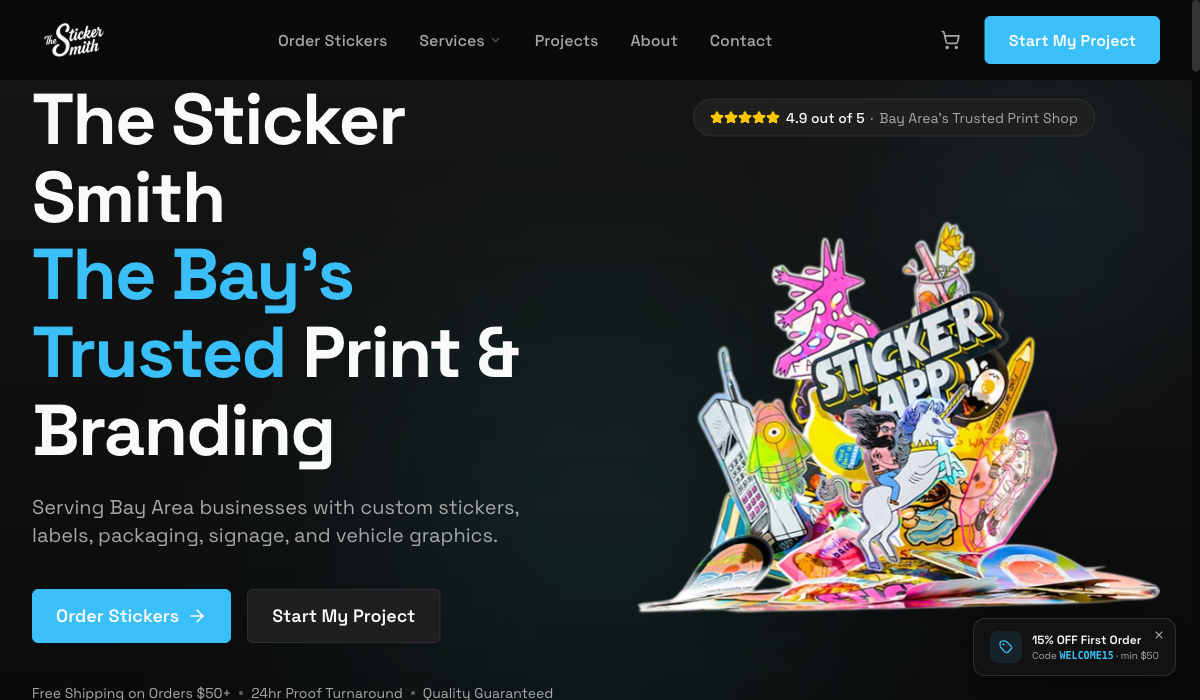
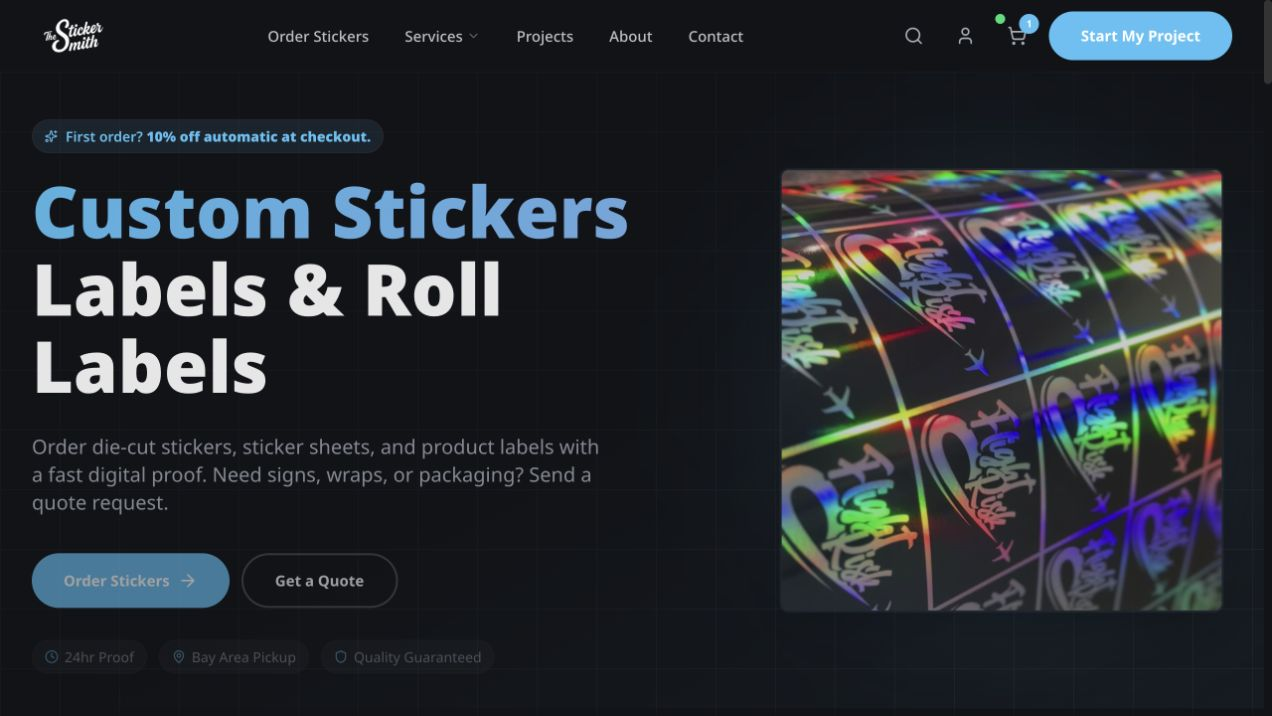
Refresh featured client proof

diff --git a/src/app/page.tsx b/src/app/page.tsx
@@ -63,6 +63,16 @@ const cases: CaseStudy[] = [
     note: "Live demand queue, Jul 22, 2026. Sourced opportunities are not presented as closed contracts.",
   },
   {
+    name: "Mo / CubicShip / DHL / Travelyt",
+    category: "Nine-workstream operator ecosystem",
+    image: "/screenshots/travelyt.png",
+    href: "/work/dhl-translator",
+    headline: "One relationship spanning customer service, training, logistics, sales, and partnership decisions.",
+    body:
+      "Nine documented workstreams across the DHL counter, CubicShip, MEA freight, Travelyt, a private command center, and experimental sales prototypes.",
+    metrics: ["9 documented workstreams", "4 operating lanes", "Ongoing relationship"],
+  },
+  {
     name: "JOON11EE",
     category: "Multi-market rental platform",
     image: "/screenshots/joon11ee.png",
@@ -94,16 +104,6 @@ const cases: CaseStudy[] = [
       "Since joining around August 2025, the website and AI receptionist have expanded into lead capture, service information, customer intake, and day-to-day workflows.",
     metrics: ["$144.3K invoiced in 2026 through Jul 19", "57 new one-off jobs in June", "17 new leads in June"],
     note: "Business figures observed in Jobber. They show the environment the system supports; they are not presented as revenue created by JDLO alone.",
-  },
-  {
-    name: "Mo / CubicShip / DHL / Travelyt",
-    category: "Nine-workstream operator ecosystem",
-    image: "/screenshots/dhl-translator.png",
-    href: "/work/dhl-translator",
-    headline: "One relationship spanning customer service, training, logistics, sales, and partnership decisions.",
-    body:
-      "Nine documented workstreams across the DHL counter, CubicShip, MEA freight, Travelyt, a private command center, and experimental sales prototypes.",
-    metrics: ["9 documented workstreams", "4 operating lanes", "Ongoing relationship"],
   },
 ];
 

diff --git a/src/app/work/[slug]/page.tsx b/src/app/work/[slug]/page.tsx
@@ -100,8 +100,8 @@ const projects: Record<string, {
       { value: "4", label: "Operating lanes" },
       { value: "Ongoing", label: "Working relationship" },
     ],
-    screenshot: "/screenshots/dhl-translator.png",
-    liveUrl: "https://cubicship-translator.vercel.app",
+    screenshot: "/screenshots/travelyt.png",
+    liveUrl: "https://travelyt.us",
     noEmbed: true,
   },
   "vacaville-appliance": {

diff --git a/src/app/work/page.tsx b/src/app/work/page.tsx
@@ -57,11 +57,11 @@ interface Project {
 
 const PROJECTS: Project[] = [
   { name: "Pearls Farm", slug: "pearls-farm", categories: ["Website", "AI", "Enterprise"], headline: "A new production website connected to crew demand, bilingual recruiting, social distribution, and a live buyer-opportunity engine", stats: ["18 ready contacts", "8 active buyers", "308 workers / top 2"], featured: true },
+  { name: "Mo / CubicShip / DHL / Travelyt", slug: "dhl-translator", categories: ["Mo Ecosystem", "Enterprise", "Tool", "AI"], headline: "Nine documented workstreams across customer service, training, operations, freight, sales, and partnership decision support", stats: ["9 workstreams", "4 operating lanes", "Ongoing relationship"], featured: true },
   { name: "JOON11EE", slug: "joon11ee", categories: ["Website", "Enterprise"], headline: "Multi-market exotic rental platform built for discovery, fleet browsing, and qualified booking requests", stats: ["275 visitors / 7d", "750 page views / 7d", "92% mobile"], featured: true },
   { name: "The Sticker Smith / TSSPrint", slug: "sticker-smith", categories: ["Website", "E-commerce"], headline: "A live local print platform creating search discovery, service demand, and direct quote paths", stats: ["187 visitors / 7d", "401 page views / 7d", "85 from Google"], featured: true },
   { name: "Vacaville Appliance", slug: "vacaville-appliance", categories: ["Website", "Enterprise"], headline: "Connected web, lead, and operating system for a local service business", stats: ["$144.3K invoiced YTD", "57 June jobs", "17 June leads"], featured: true },
   { name: "CubicShip", slug: "cubicship", categories: ["Mo Ecosystem", "Website", "Enterprise", "SaaS"], headline: "A public shipping platform connected to customer orders, quotes, locations, freight, and branch workflows", stats: ["15 managed locations", "512 Google reviews", "67 page views / 7d"], featured: true },
-  { name: "Mo / CubicShip / DHL / Travelyt", slug: "dhl-translator", categories: ["Mo Ecosystem", "Enterprise", "Tool", "AI"], headline: "Nine documented workstreams across customer service, training, operations, freight, sales, and partnership decision support", stats: ["9 workstreams", "4 operating lanes", "Ongoing relationship"], featured: true },
   { name: "DHL ServicePoint Translator", slug: "dhl-servicepoint-translator", url: "https://cubicship-translator.vercel.app", categories: ["Mo Ecosystem", "AI", "Tool"], headline: "Customer-facing translation for real international shipping conversations at the counter", stats: ["Live tool", "100+ store context", "Customer service"] },
   { name: "DHL Counter Training Game", slug: "dhl-training-game", url: "https://dhl-training-game.vercel.app", categories: ["Mo Ecosystem", "Game", "Enterprise"], headline: "A repeatable training simulator for counter workflows, shipping judgment, and staff certification", stats: ["Live simulator", "Training workflow", "Pass-to-certify"] },
   { name: "Pomaika\u2018i Co", slug: "pomaikai", categories: ["Website", "AI"], headline: "A six-route business platform with real systems proof and visible JDLO build credit", stats: ["6 public routes", "3 system stories", "JDLO AI credit"], featured: true },